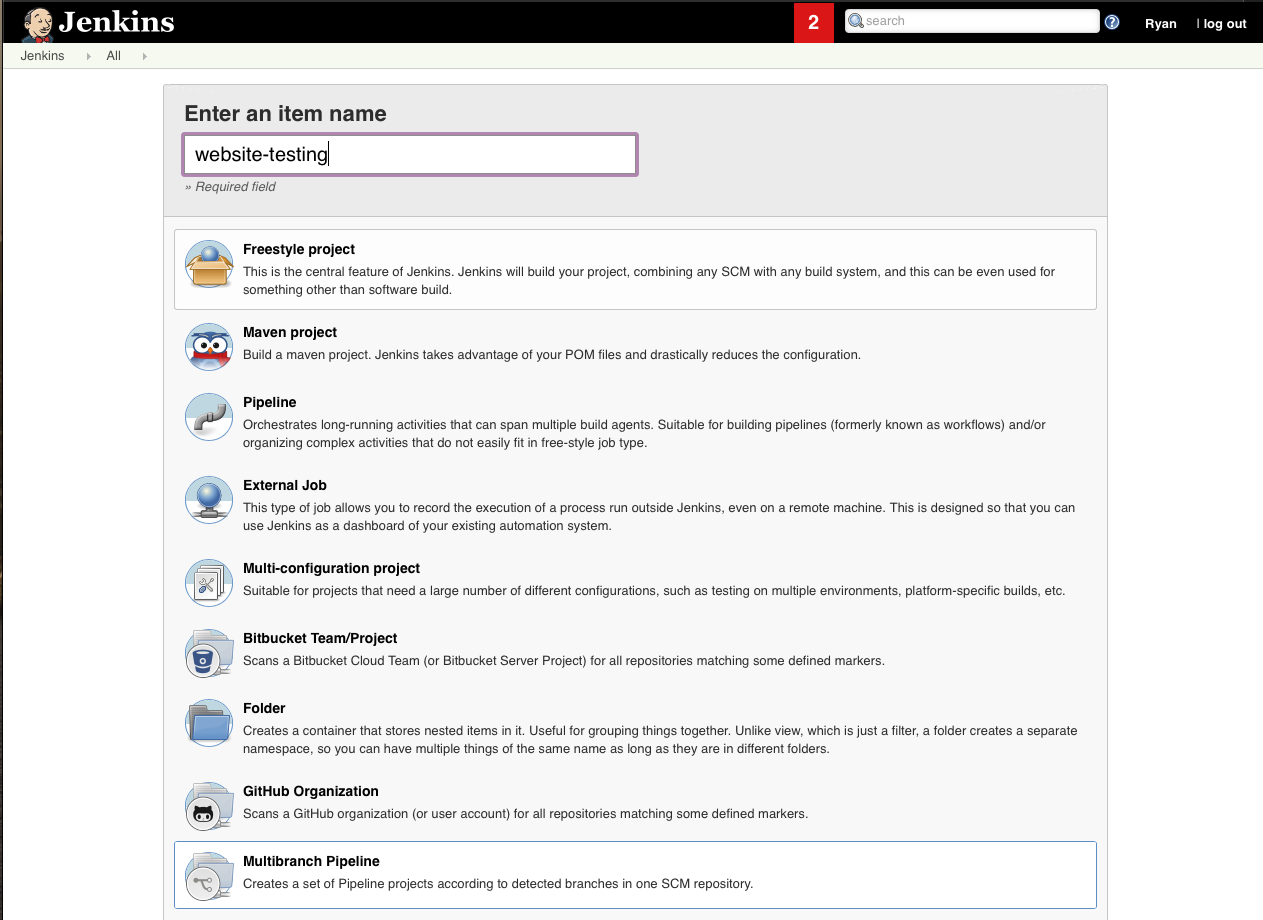
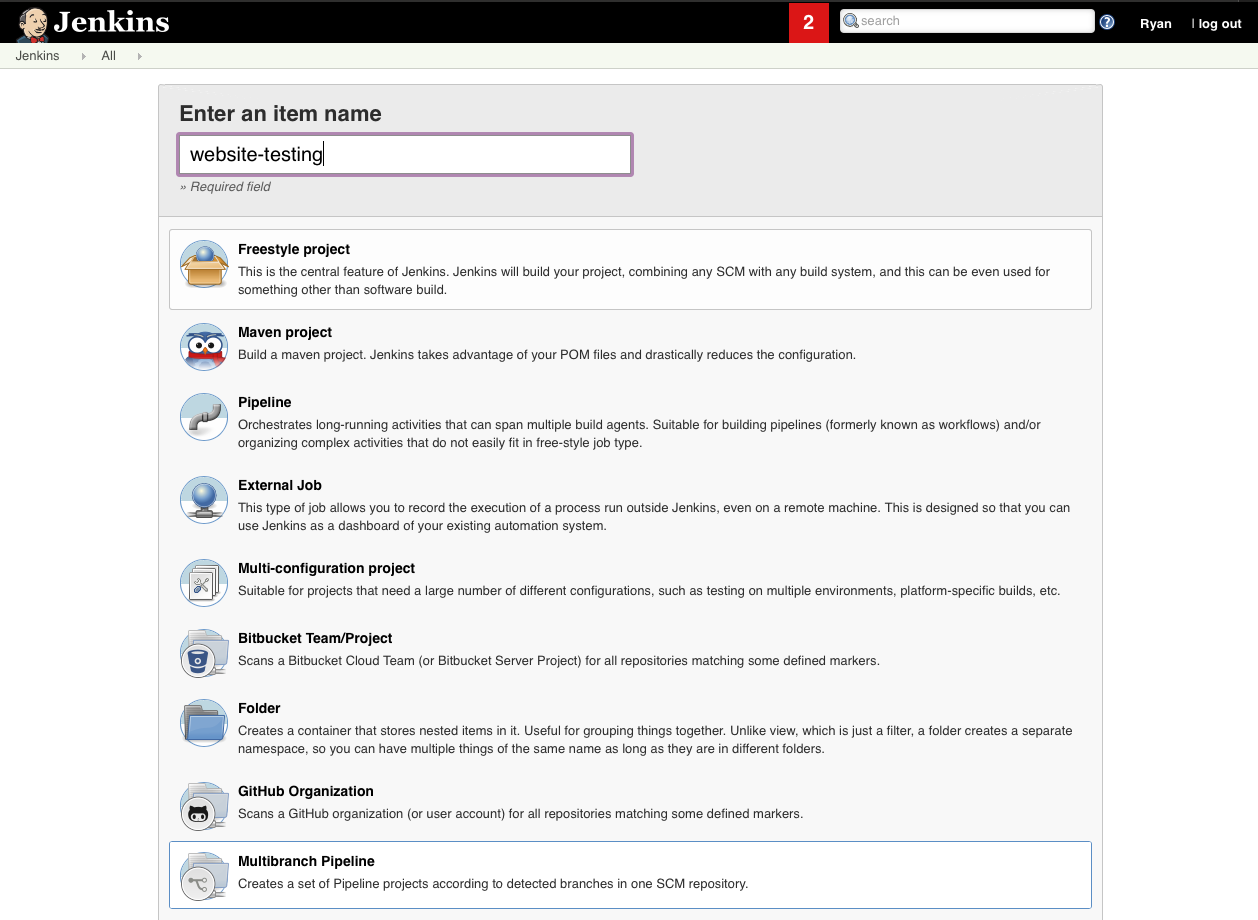
Added new header image, trimmed new job image

diff --git a/content/post/creating-website-tests-ci.md b/content/post/creating-website-tests-ci.md
@@ -2,7 +2,7 @@
 title  = "Creating Tests For This Website: CI"
 date   = "2020-02-29"
 author = "Ryan Himmelwright"
-image  = "img/posts/creating-website-tests-pages/pnc-arena.jpeg"
+image  = "img/posts/creating-website-tests-ci/pnc-arena2.jpeg"
 caption = "PNC Arena, Raleigh NC"
 tags   = ["website", "hugo", "dev", "python", "testing", "jenkins"]
 draft  = "True"
